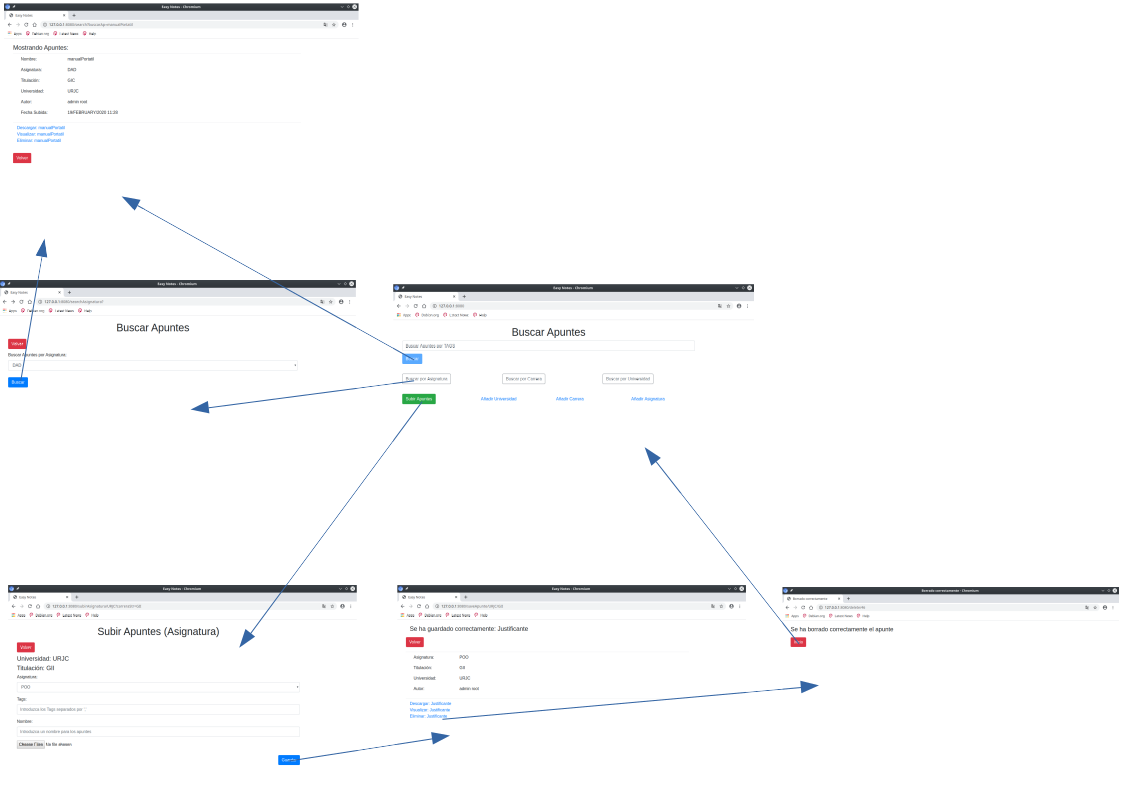
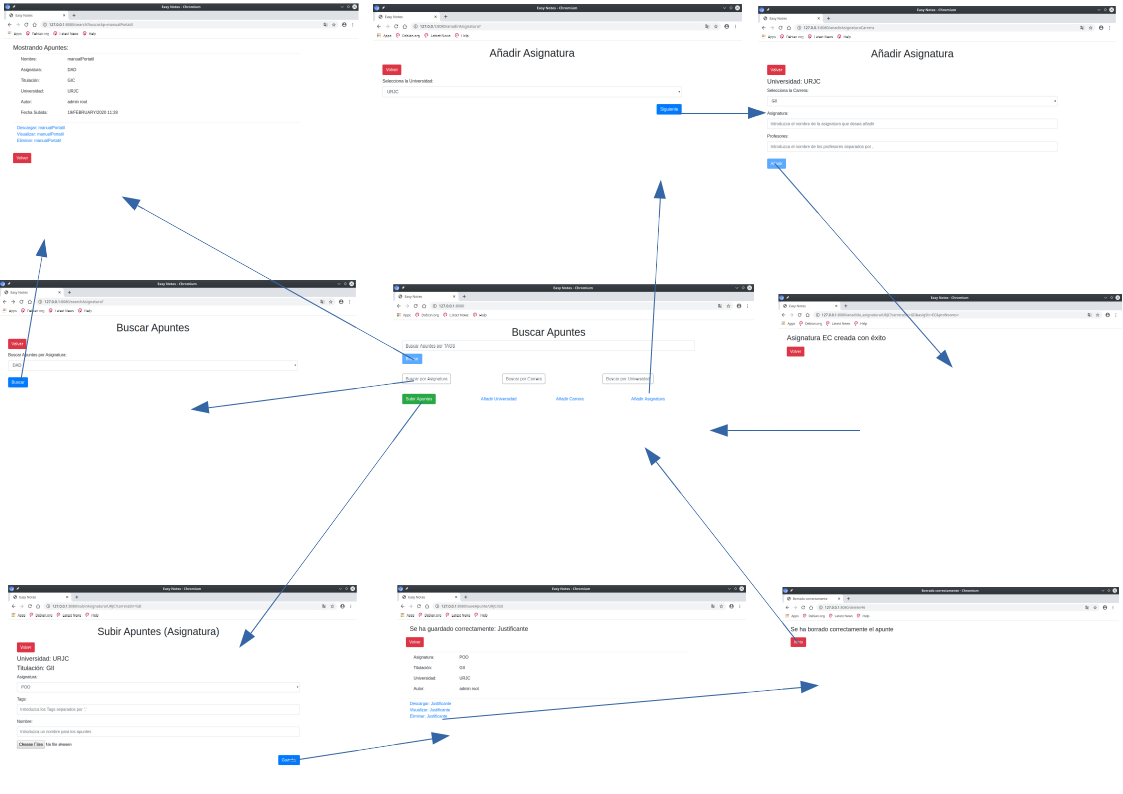
Last update

diff --git a/README.md b/README.md
@@ -54,7 +54,7 @@ Los otros dos páginas (Buscar por Carrera y Buscar por Universidad) tienen la m
 Página para subir los apuntes. Se selecciona la universidad, la titulación y la asignatura.
 Se pueden añadir tags si lo desea.
 
-## Diagrama de navegación (TODO)
+## Diagrama de navegación
 ![](src/main/resources/Imagenes/diagrama_navegacion.png)
 
 ## Modelo de datos
